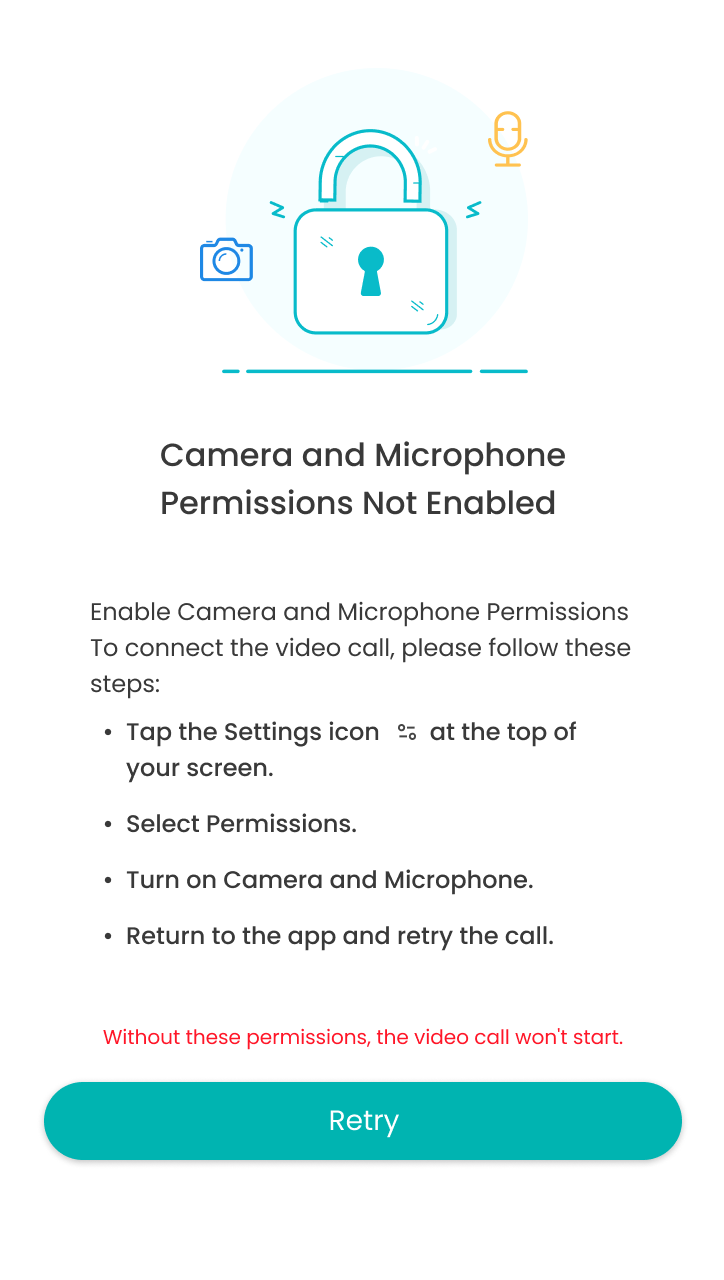
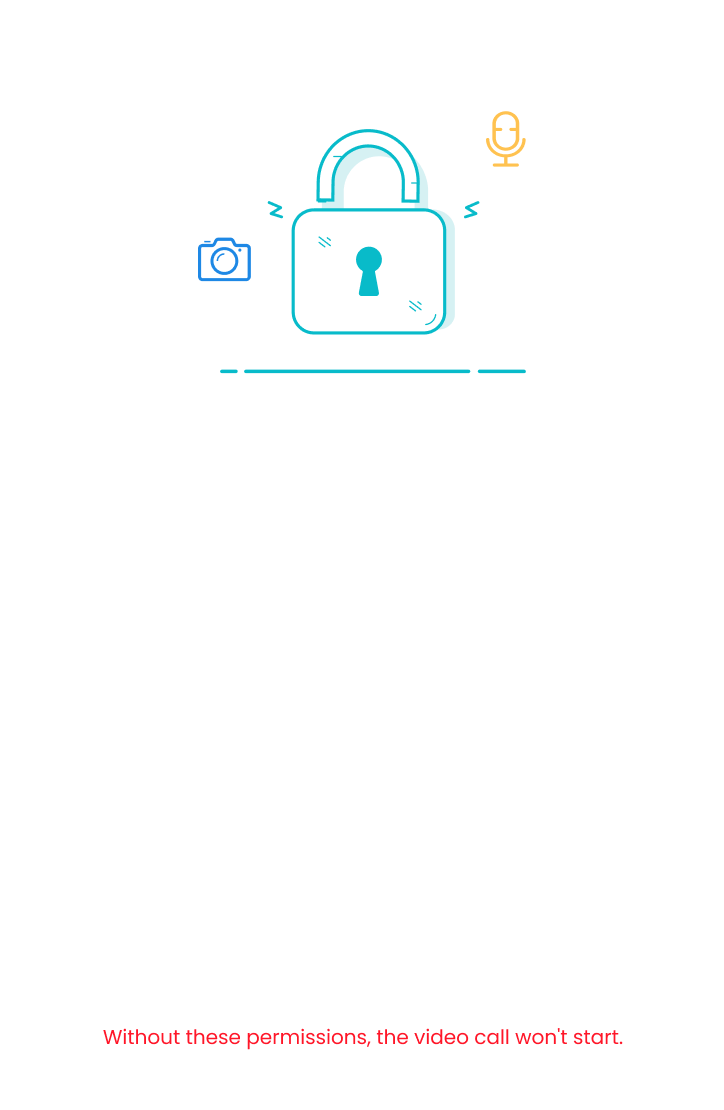
t 3

diff --git a/public/js/client.js b/public/js/client.js
@@ -11,7 +11,7 @@ const myRoomId = getId('myRoomId');
 const roomId = getRoomId();
 const qs = new URLSearchParams(window.location.search);
 const nameData = filterXSS(qs.get('userName'));
-const myRoomUrl = window.location.origin + '/join/' + roomId + "?userName=" + nameData;
+const myRoomUrl = window.location.origin + '/join/' + roomId + "?userName=" + nameData; // share room url
 
 // Images
 const images = {
@@ -10850,33 +10850,15 @@ function msgHTML(icon, imageUrl, title, html, position = 'center', redirectURL =
         background: swBg,
         position: position,
         html: html,
-        showConfirmButton: false, // Hide the confirm button
+        confirmButtonText: 'Retry',
         showClass: { popup: 'animate__animated animate__fadeInDown' },
         hideClass: { popup: 'animate__animated animate__fadeOutUp' },
-        didOpen: () => {
-            document.getElementById('retryImage').addEventListener('click', function () {
-                // Retry logic here
-                navigator.mediaDevices.getUserMedia({ video: true, audio: true })
-                    .then((stream) => {
-                        console.log('Permission granted');
-                        // Close the Swal dialog if needed
-                        Swal.close();
-                    })
-                    .catch((error) => {
-                        console.error('Permission denied:', error);
-                        alert('Please enable camera and microphone permissions in your browser settings.');
-                    });
-            });
+    }).then((result) => {
+        if (result.isConfirmed && redirectURL) {
+            openURL(redirectURL);
         }
     });
 }
-
-// Example usage
-const $html = `
-    <img id="retryImage" src="../images/permission.png" alt="Retry" style="cursor: pointer; margin-top: 10px; width: -webkit-fill-available;">
-`;
-
-msgHTML(null, images.forbidden, 'Permission denied', $html, 'center', myRoomUrl);
 
 /**
  * Message popup
